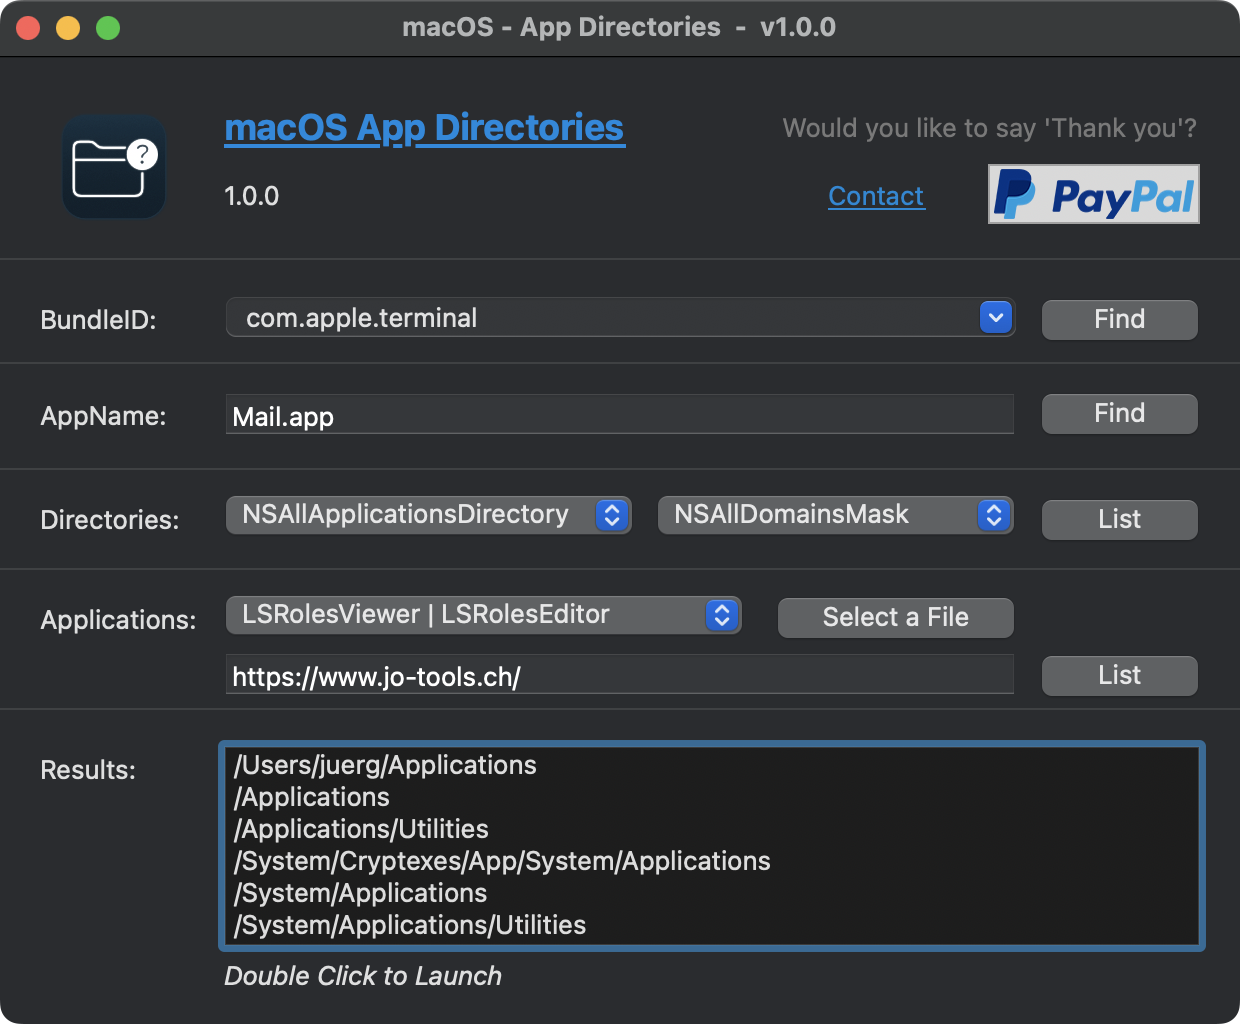
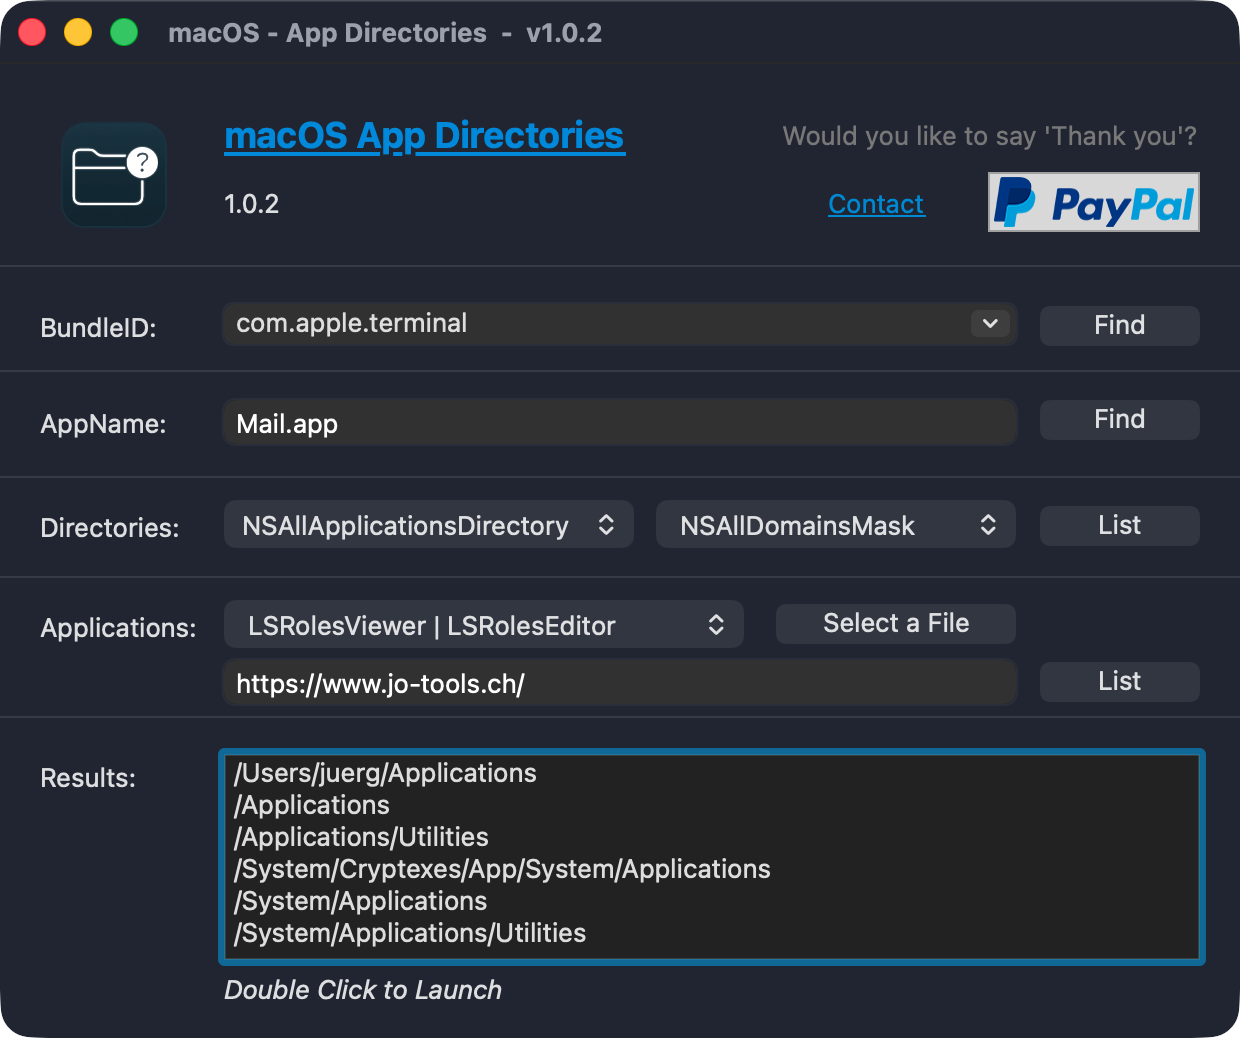
Xojo 2026r1.2 | Maintenance (#5)
* Xojo 2026r1.2

* Xojo2DMG 2.1.0

* Update ScreenShot

diff --git a/README.md b/README.md
@@ -34,7 +34,7 @@ Example application: macOS App Directories
 [Xojo](https://www.xojo.com/) is a rapid application development for Desktop, Web, Mobile & Raspberry Pi.  
 
 The Desktop application Xojo example project ```macOS-App-Directories.xojo_project``` is using:
-- Xojo 2024r4.2
+- Xojo 2026r1.2
 - API 2
 
 ### How to use in your own Xojo project?
